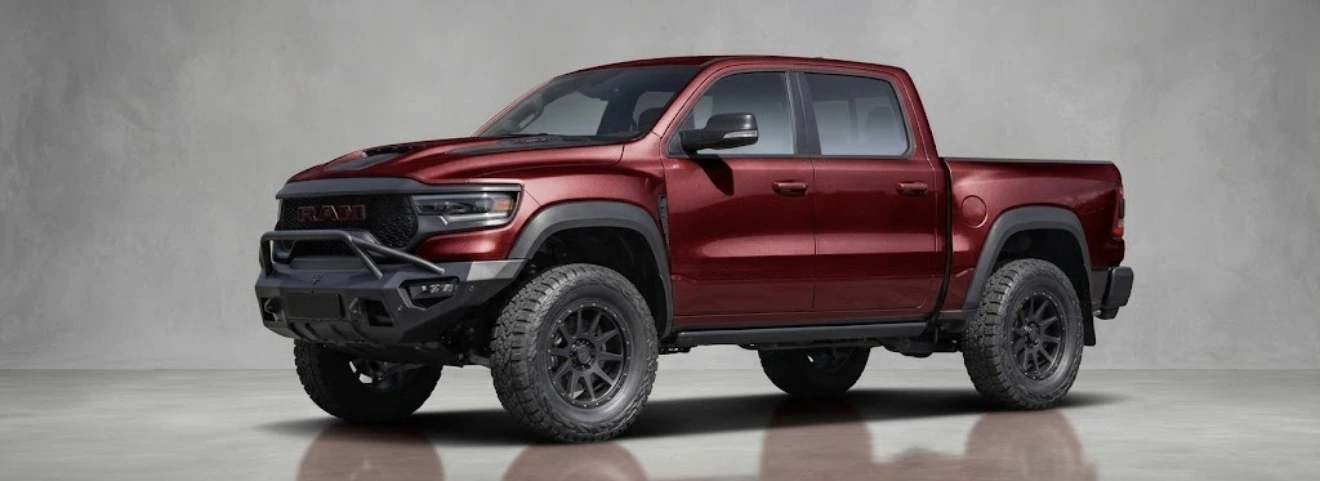
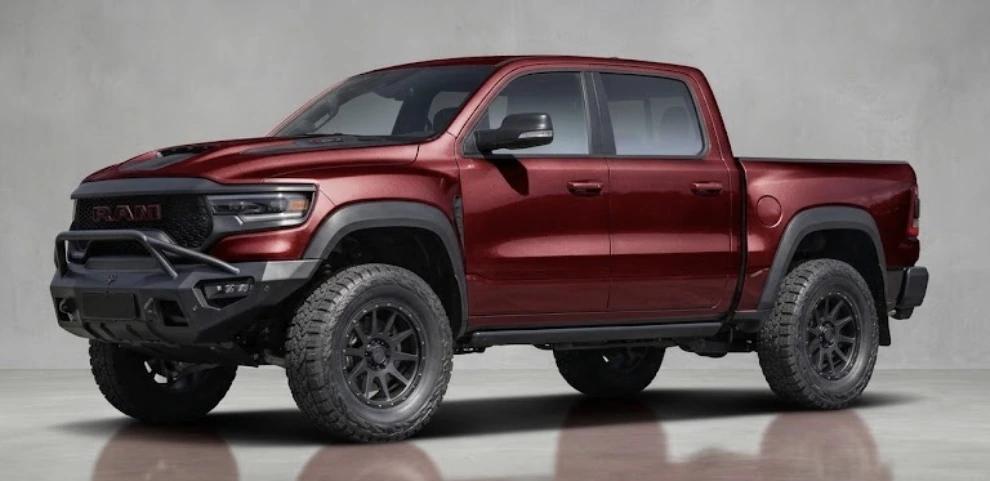
Wrap truck: crop side wall so the truck fills the viewer like the other cars
Claude-Session: https://claude.ai/code/session_01TC8hHsQGEZ2GaHBM8k3cGS

diff --git a/index.html b/index.html
@@ -108,7 +108,7 @@
       <div class="wrap-tool">
         <div class="caliper-view wrap-view" id="wrap-view">
           <div class="cv-stage" id="wrap-stage">
-            <img id="wrap-img" src="assets/img/wrap-sports.webp?v=20261109w" alt="Lamborghini Huracan with its body wrapped in the selected color" width="1117" height="787" loading="lazy">
+            <img id="wrap-img" src="assets/img/wrap-sports.webp?v=20261109x" alt="Lamborghini Huracan with its body wrapped in the selected color" width="1117" height="787" loading="lazy">
             <canvas id="wrap-paint" width="1149" height="342" aria-hidden="true"></canvas>
           </div>
           <p class="cv-photo-note">Real car, rewrapped live</p>
@@ -161,7 +161,7 @@
       <div class="caliper-view" id="caliper-view" data-mode="photo">
         <canvas id="caliper-canvas" tabindex="0" role="img" aria-label="3D model of a wheel and brake caliper in the selected color. Drag, or use the arrow keys, to change the angle."></canvas>
         <div class="cv-stage" id="cv-stage">
-          <img id="caliper-img" src="assets/img/caliper-sports.webp?v=20261109w" alt="Black wheel on a red sports car" width="1200" height="900" loading="lazy">
+          <img id="caliper-img" src="assets/img/caliper-sports.webp?v=20261109x" alt="Black wheel on a red sports car" width="1200" height="900" loading="lazy">
           <canvas id="caliper-paint" width="193" height="347" aria-hidden="true"></canvas>
         </div>
         <p class="cv-hint" aria-hidden="true"><span class="cv-hint-icon"></span>Drag to rotate</p>
@@ -469,6 +469,6 @@
 </footer>
 
 <script src="caliper-3d.js?v=202611091725" defer></script>
-<script src="main.js?v=202611092320" defer></script>
+<script src="main.js?v=202611092340" defer></script>
 </body>
 </html>

diff --git a/main.js b/main.js
@@ -36,7 +36,7 @@ function arrowNav(buttons, select) {
 // box = where the shade layer sits in the photo: [x, y, width, height]; size defaults to 1200x900.
 // Bump ASSET_V whenever a photo or shade layer changes, so phones never pair a cached old
 // photo with a new shade layer (that is what makes the repaint look shifted).
-const ASSET_V = '20261109w';
+const ASSET_V = '20261109x';
 const toLin = v => Math.pow(v / 255, 2.2);
 const hexLin = h => { const n = parseInt(h.replace('#', ''), 16); return [n >> 16 & 255, n >> 8 & 255, n & 255].map(toLin); };
 const FIN = { gloss: [1, 1], satin: [0.8, 0.4], matte: [0.6, 0.12] };   // lighting contrast, shine kept
@@ -213,7 +213,7 @@ const wrapPaint = createPainter({
     sports: { img: asset('wrap-sports.webp'), shade: asset('wrap-sports-shade.png'), box: [74, 219, 979, 435], size: [1117, 787], alt: 'Lamborghini Huracan with its body wrapped in the selected color' },
     sedan: { img: asset('wrap-sedan.webp'), shade: asset('wrap-sedan-shade.png'), box: [21, 544, 1263, 380], size: [1320, 1158], alt: 'Porsche sport sedan with its body wrapped in the selected color' },
     suv: { img: asset('wrap-suv.webp'), shade: asset('wrap-suv-shade.png'), box: [49, 137, 807, 295], size: [958, 574], alt: 'Volvo XC40 SUV with its body wrapped in the selected color' },
-    truck: { img: asset('wrap-truck.webp'), shade: asset('wrap-truck-shade.png'), box: [288, 53, 838, 278], size: [1320, 481], alt: 'Ram TRX pickup with its body wrapped in the selected color' }
+    truck: { img: asset('wrap-truck.webp'), shade: asset('wrap-truck-shade.png'), box: [83, 53, 838, 278], size: [990, 481], alt: 'Ram TRX pickup with its body wrapped in the selected color' }
   }
 });
 wirePickers(document.getElementById('wraps'), wrapPaint);
